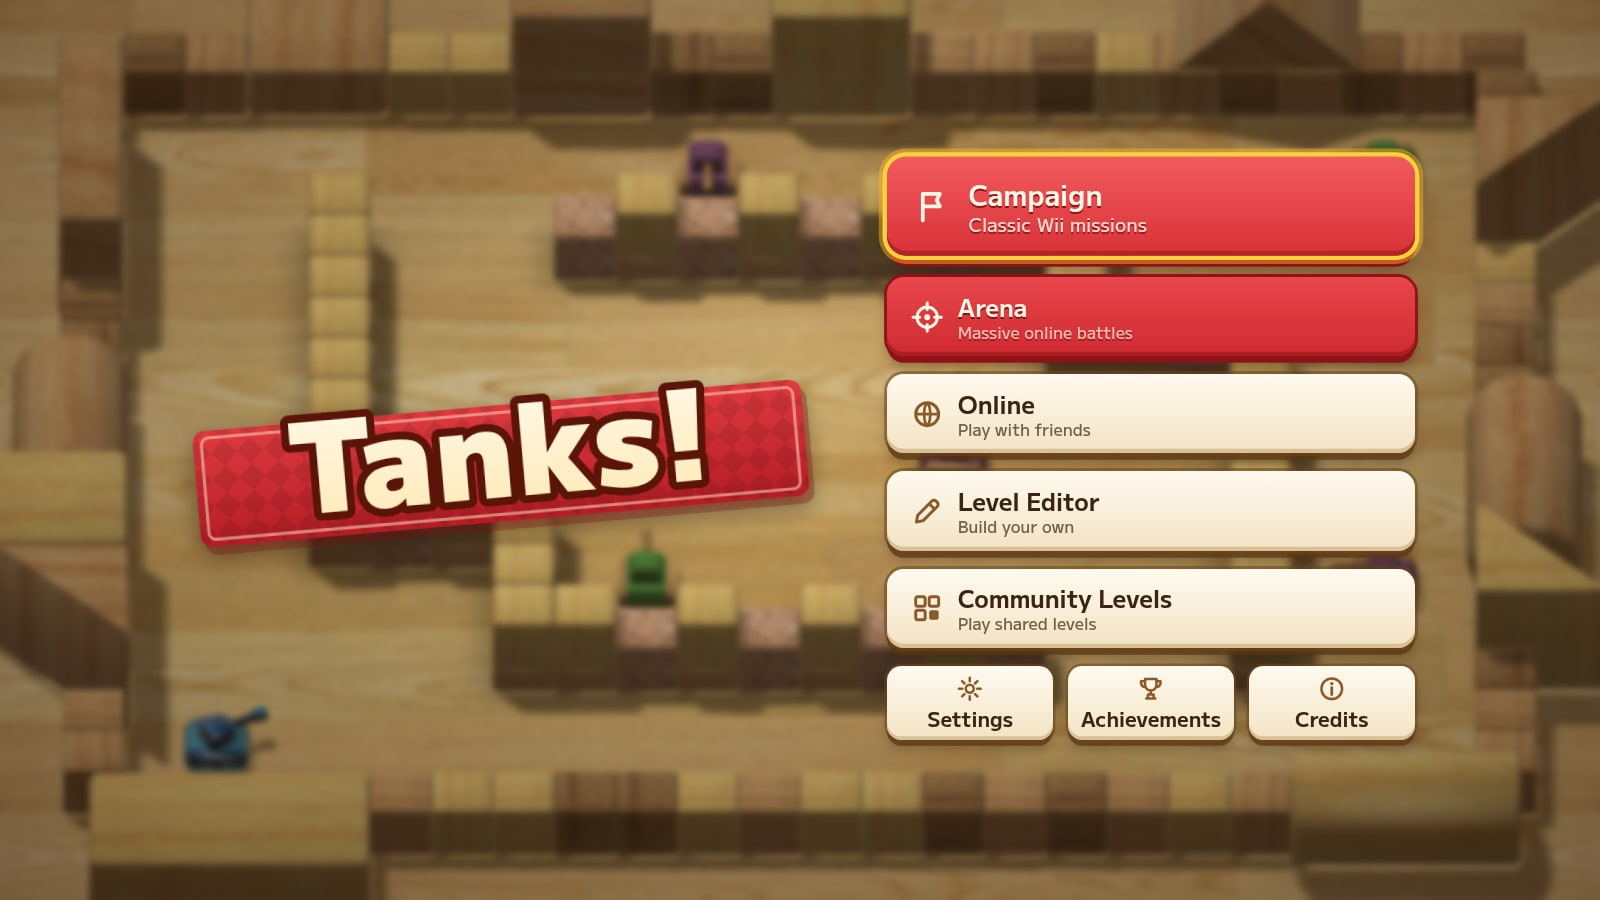
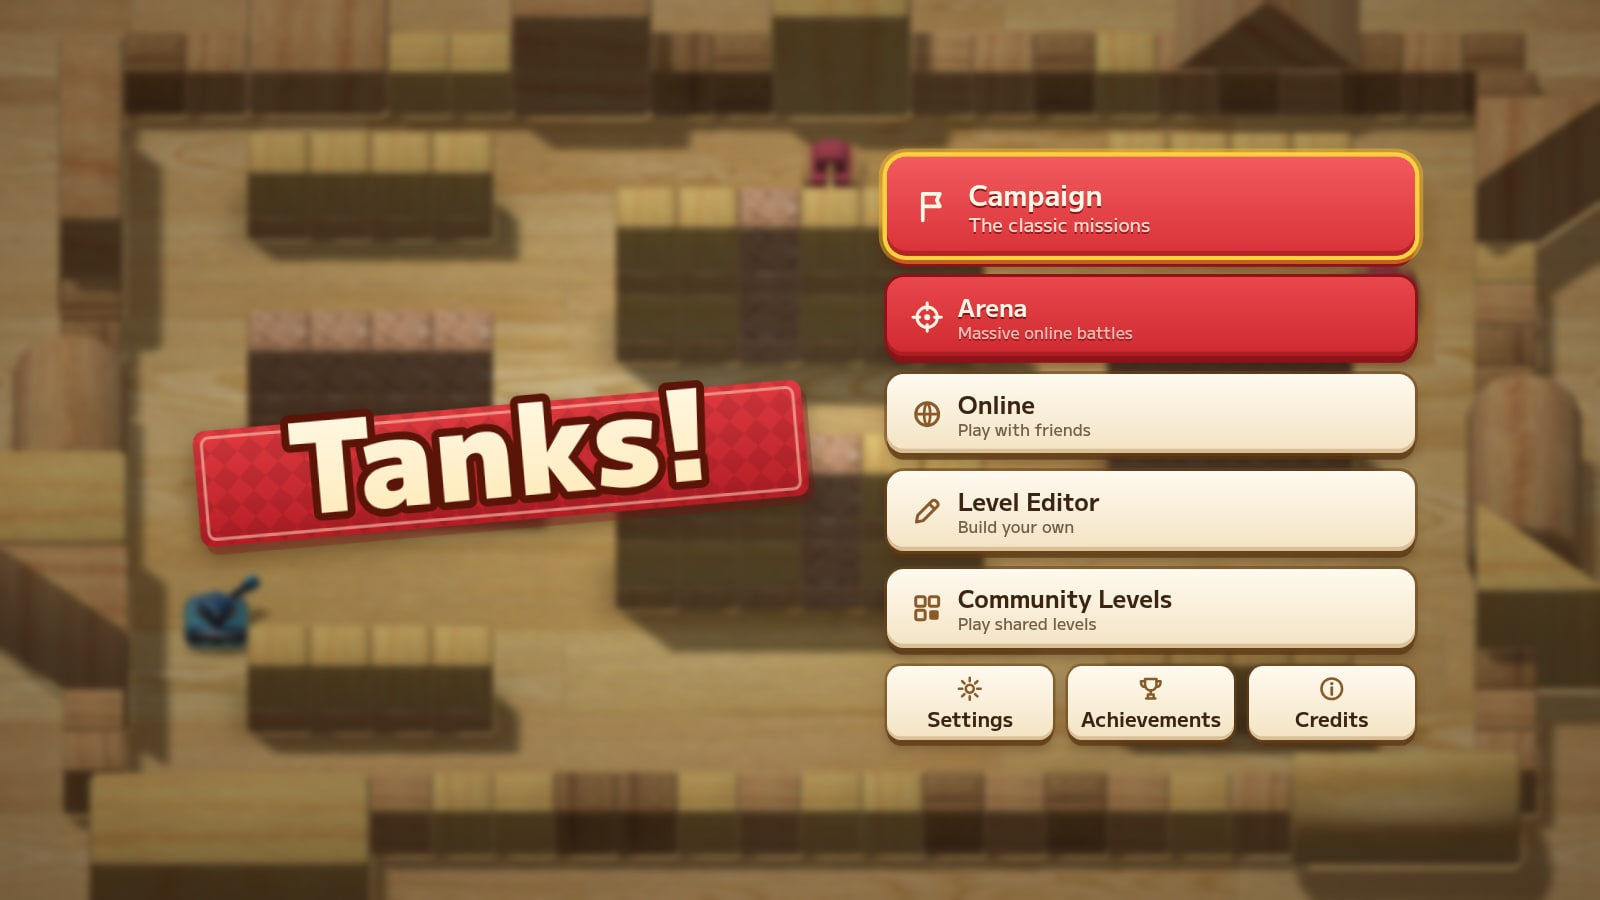
Tanks!: no mention of the original console or its maker, and new screenshots of the reworded screens

diff --git a/client/src/data/projects.ts b/client/src/data/projects.ts
@@ -8,7 +8,7 @@ export const projects: Project[] = [
     title: 'Tanks!',
     color: '#c8282f',
     icon: 'svg/tanks.svg',
-    summary: "Wii Play's Tanks! in the browser, with online co-op and a 40-player arena.",
+    summary: 'Toy tank battles in the browser, with online co-op and a 40-player arena.',
     start: new Date('2026-11-09'),
     end: new Date(),
     url: 'https://tanks.wohlbruck.dev',

diff --git a/client/src/content/projects/tanks.md b/client/src/content/projects/tanks.md
@@ -1,5 +1,5 @@
-Tanks! was the best part of Wii Play: a toy tank on a wooden table, shells that bounce off the walls once, and mines you lay behind you. This is the whole game in a browser. All 100 missions from the original disc play the way they did on the Wii, because the game logic is ported from the decompiled disc rather than rebuilt from memory. Nothing from the disc ships with the code. The models, levels and sounds are converted at build time from your own copy.
+Toy tanks on a wooden table, shells that bounce off the walls once, and mines you lay behind you. This is a faithful port of a classic minigame to the browser. All 100 missions play exactly as they always did, because the game logic is ported line by line rather than rebuilt from memory. Nothing from the original disc ships with the code. The models, levels and sounds are converted at build time from your own copy.
 
-On top of that there is everything the Wii never had. You can play the campaign online with a friend, in co-op or head to head. A level editor lets you build missions and share them with everyone else. The Arena is one huge map with up to 40 tanks, where you drop in at any time and respawn when you're hit, and it has power-ups, homing flares, shields and one nuke per match.
+On top of that there is everything the original never had. You can play the campaign online with a friend, in co-op or head to head. A level editor lets you build missions and share them with everyone else. The Arena is one huge map with up to 40 tanks and four modes (free-for-all, teams, battle royale and elimination), with power-ups, homing flares, shields and one nuke per match.
 
 The game runs on three.js with WebGPU. Online play is server-authoritative: a Bun server runs the simulation and streams snapshots, and the client predicts your own tank so it stays responsive. Every push to main is checked against replays of the campaign and deployed as a new version by GitHub Actions.
